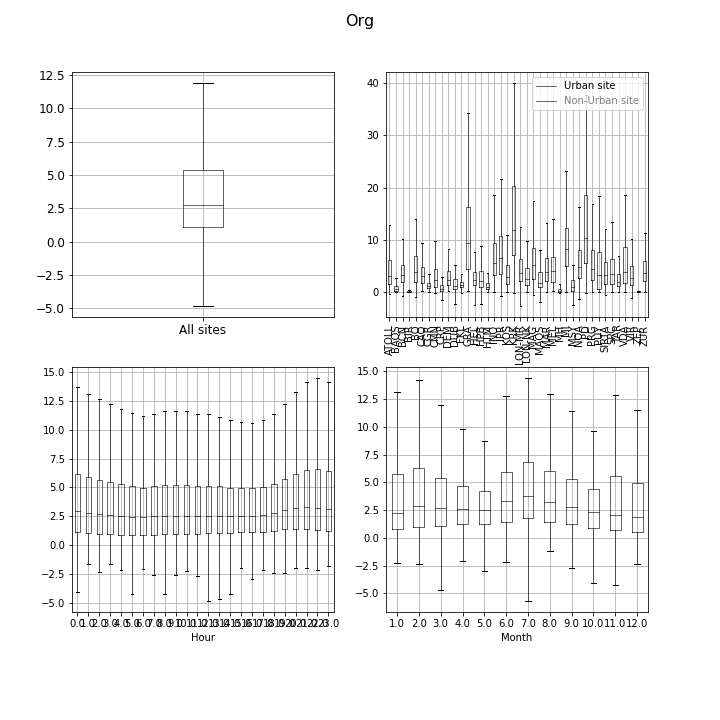
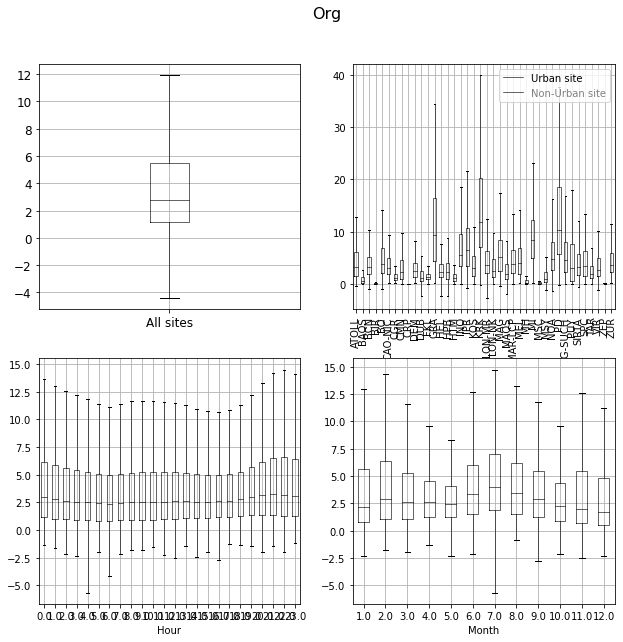
Progress 10/01/2024

diff --git a/Data_compilation.py b/Data_compilation.py
@@ -51,7 +51,7 @@ all_files=glob.glob(path_data+'*Composition.txt')
 li_site_names = [j[-29:-25] for j in all_files]
 chem_comp=pd.DataFrame()
 chem_comp['Chemical_composition']=[pd.read_csv(i, sep='\t', na_values='null', keep_default_na=True) for i in all_files]
-li_sites_names = ['ATOLL', 'BAQS', 'BCN', 'BIR', 'BO', 'CAO-NIC', 'CGR', 'CMN', 'CRP', 'DEM', 'DUB', 'FKL','GRA', 'HEL','HPB', 'HTM', 'INO', 'IPR',  'KOS', 'KRK', 'LON-MR', 'LON-NK', 'MAG','MAQS', 'MAR-LCP', 'MEL', 'MH', 'MI', 'MSY', 'NOA', 'PD', 'PRG-SUCH','PUY', 'SIRTA',  'SPC', 'TAR','VIR', 'ZEP', 'ZUR'] 
+li_sites_names = ['ATOLL', 'BAQS', 'BCN', 'BIR', 'BO', 'CAO-NIC', 'CGR', 'CMN', 'CRP', 'DEM', 'DUB', 'FKL','GRA', 'HEL','HPB', 'HTM', 'INO', 'IPR',  'KOS', 'KRK', 'LON-MR', 'LON-NK', 'MAG','MAQS', 'MAR-LCP', 'MEL', 'MH', 'MI', 'MSC', 'MSY', 'NOA', 'PD', 'PRG-SUCH','PUY', 'SIRTA',  'SPC', 'TAR','VIR', 'ZEP', 'ZUR'] 
 chem_comp.index = li_sites_names
 #%% We import metadatafiles
 os.chdir(path_folder)
@@ -106,7 +106,7 @@ comp='Org'
 li_dfs=[]
 chem_compound,chem_compound_t, chem_dt=pd.DataFrame(), pd.DataFrame(), pd.DataFrame()
 for i in range(0,len(chem_comp)):
-    print(i, li_site_names[i])
+    print(i, li_sites_names[i])
     df1 = pd.DataFrame(chem_comp.iloc[i][0])
     df1.reset_index(inplace=True, drop=True)
     df1['datetime']=pd.to_datetime(df1['Time (UTC)'], dayfirst=True)
@@ -142,8 +142,8 @@ plt.savefig('Boxplots_'+comp+'.png')
 # li_dfs=[j.drop('datetime', inplace=True, axis=1) for j in li_dfs]
 
 
-#%% Maybe now I should put them in teh daily pattern
-min_date = pd.date_range(start='01/01/2010', end = '31/12/2023', freq='D').strftime('%d/%m/%Y') #The complete time series
+#%% Maybe now I should put them in the daily pattern
+min_date = pd.date_range(start='01/01/2009', end = '31/12/2023', freq='D').strftime('%d/%m/%Y') #The complete time series
 li_days, li_nr=[], []
 for i in range(0,len(chem_comp)):
     print(i, li_sites_names[i], li_site_names[i])
@@ -151,9 +151,10 @@ for i in range(0,len(chem_comp)):
     df1.reset_index(inplace=True, drop=True)
     df1['datetime']=pd.to_datetime(df1['Time (UTC)'], dayfirst=True) 
     df1['date']=df1['datetime'].dt.date
+    df1['Org'].astype(float)
     df1=df1.drop(columns=['Time (Local)', 'Time (UTC)', 'MSA', 'Seasalt', 'datetime'], axis=1, errors='ignore')
-    df1d=df1#.groupby(by=df1['date']).mean(numeric_only=True)
-    # df1d['datetime']=pd.to_datetime(df1d.index, dayfirst=True)
+    df1d=df1.groupby(by=df1['date']).mean(numeric_only=True)
+    df1d['datetime']=pd.to_datetime(df1d.index, dayfirst=True)
     df1d.columns=['Chl_'+li_sites_names[i],'NH4_'+li_sites_names[i], 'NO3_'+li_sites_names[i],'Org_'+li_sites_names[i], 'SO4_'+li_sites_names[i], 'datetime_'+li_sites_names[i] ]
     nr=pd.DataFrame({li_sites_names[i]: df1d.drop('datetime', errors='ignore').sum(axis=1)})
     li_days.append(df1d) #List of the datetimes
@@ -167,19 +168,23 @@ for i in range (1,len(li_days)):
     dates = pd.merge(dates,li_days[i], how='outer',left_on='date', right_on='datet', sort=True)
 dates=dates.drop(dates.index[-1])
 dates.index=dates['date']
-dates.plot(legend=False)
+# dates.plot(legend=False)
 
 #%% PLot availability
 dates_plot=dates.loc[:, dates.columns.str.startswith('datetime')]
 colors=['grey', ]
-for m, col in zip('xosd', df):
-    df[col].plot(marker=m)
-plt.legend()
+li_sites_names = ['ATOLL', 'BAQS', 'BCN', 'BIR', 'BO', 'CAO-NIC', 'CGR', 'CMN', 'CRP', 'DEM', 'DUB', 'FKL','GRA', 'HEL','HPB', 'HTM', 'INO', 'IPR',  'KOS', 'KRK', 'LON-MR', 'LON-NK', 'MAG','MAQS', 'MAR-LCP', 'MEL', 'MH', 'MI', 'MSC', 'MSY', 'NOA', 'PD', 'PRG-SUCH','PUY', 'SIRTA',  'SPC', 'TAR','VIR', 'ZEP', 'ZUR'] 
 
+# for m, col in zip('xosd', df):
+#     df[col].plot(marker=m)
+# plt.legend()
 li_marker=[]
 li_color=[]
+metadata = metadata.sort_values('Acronym')
+metadata.index =range(0,len(metadata))
 for i in range(0,len(metadata[:-1])):
-    if metadata['Type.1'].iloc[i]=='AMS':
+    # print(i, metadata['Acronym'][i], dates_plot.columns[i], metadata['Type.1'][i])
+    if metadata['Type.1'].iloc[i]=='AMS' or metadata['Type.1'].iloc[i]=='Q-AMS' or  metadata['Type.1'].iloc[i]=='c-ToF-AMS' :
         li_marker.append('D')
     if metadata['Type.1'].iloc[i]=='Q':
         li_marker.append('s')
@@ -200,15 +205,24 @@ for i in range(0,len(metadata[:-1])):
         li_color.append('hotpink')
     if metadata['Type'].iloc[i]=='TR':
         li_color.append('darkcyan')
+        
 dates_plot=dates_plot.notnull().astype('int')
 dates_plot=dates_plot.replace(0, np.nan)
+
+li_color.append('royalblue')
+li_marker.append('s')
+
+li_sites_names.reverse()
+
 for i in range(0,len(dates_plot.columns)):
-    dates_plot[dates_plot.columns[i]]=dates_plot[dates_plot.columns[i]]*(i+1)
-fig, axs = plt.subplots(figsize=(9,8))
+    dates_plot[dates_plot.columns[i]]=dates_plot[dates_plot.columns[i]]*40-(i)
+fig, axs = plt.subplots(figsize=(10, 11))
 for m, col, c in zip(li_marker, dates_plot.columns, li_color):
-    dates_plot[col].plot(marker=m, lw=0,legend=False, ax=axs, color=c, grid=True)
+    dates_plot[col].plot(marker=m, lw=0, legend=False, ax=axs, color=c, grid=True)
 axs.set_yticks(range(0,len(dates_plot.columns)+1))
-axs.set_yticklabels(['']+li_sites_names)
+axs.set_yticklabels(['']+li_sites_names, fontsize=12)
+axs.set_xticklabels(range(2008,2025,2), fontsize=14, rotation=0)
+
 axs.set_xlabel('Time (years)', fontsize=14)
 axs.set_ylabel('Sites', fontsize=14)
 from matplotlib.lines import Line2D
@@ -224,21 +238,24 @@ legend_elements = [Line2D([0], [0], color='royalblue', label='Urban background',
                    Line2D([0], [0], marker='D', color='grey', label='AMS'),
                    Line2D([0], [0], marker='s', color='grey', label='Q-ACSM'),
                    Line2D([0], [0], marker='o', color='grey', label='ToF-ACSM')]
-axs.legend(handles=legend_elements, loc = (1.02,0.5))#'upper right')
-#Still to do: plot by type of instrument  or type of site. 
+axs.legend(handles=legend_elements, loc = (1.03,0.65))#'upper right')
+plt.title('Data availability')
 fig.savefig('Site_availability.png')
 
 
 #%%
-li_sites_types = []
-for i in range(0,len(li_sites_names)):
-    a=metadata.loc[metadata['Acronym']==li_sites_names[i]]['Type'].to_list()
-    li_sites_types.append(a[0])
+li_sites_names.reverse()
+# metadata=metadata.drop(35)
+metadata=metadata.reset_index()
+metadata['index']=metadata.index
+li_sites_types=metadata['Type'].to_list()
+
 sites=pd.DataFrame({'Name': li_sites_names, 'Type': li_sites_types})
-#%%
-comp = 'Org'
+#%%Plots all data for eaqch typeand in black the mean of them
+comp = 'SO4'
 col_list=[]
 types =['UB', 'RB', 'SU', 'C', 'M', 'A', 'TR']
+
 ub, rb, su, c, m, a, tr= pd.DataFrame(), pd.DataFrame(),pd.DataFrame(),pd.DataFrame(),pd.DataFrame(),pd.DataFrame(), pd.DataFrame()
 compound_dates=dates.loc[:, dates.columns.str.startswith(comp)]
 for i in range(0,len(compound_dates.columns)):
@@ -287,7 +304,7 @@ for i in range(0,len(li_df_types)):
 axs[0].set_ylim(0,15)
 fig.suptitle(comp, fontsize=14)
 
-#%%
+#%% ??
 fig, axs=plt.subplots(nrows=len(ub.columns), figsize=(2,20))
 for j in range():
     df=types[j]
@@ -296,17 +313,18 @@ for i in range(0,len(ub.columns)):
     axs[i].set_ylabel(li_sites_names[i])
 #%%
 fig, axs=plt.subplots( figsize=(5,5))
-ub.median().plot(kind='kde', ax=axs, lw=3)
-rb.median().plot(kind='kde', ax=axs, lw=3)
-su.median().plot(kind='kde', ax=axs, lw=3)
+ub.median().plot(kind='kde', ax=axs, lw=3, color='royalblue')
+rb.median().plot(kind='kde', ax=axs, lw=3, c ='green')
+su.median().plot(kind='kde', ax=axs, lw=3, c='darkorange')
 # c.mean().plot(kind='kde', ax=axs)
-# m.median().plot(kind='kde', ax=axs)
+m.median().plot(kind='kde', ax=axs, lw=3, color = 'sienna' )
 # a.median().plot(kind='kde', ax=axs)
-tr.mean().plot(kind='kde', ax=axs, lw=3)
-axs.legend(['UB', 'RB', 'SU', 'TR']) 
-plt.title('OA', fontsize=15)
+tr.mean().plot(kind='kde', ax=axs, lw=3, color ='darkcyan' )
+axs.legend(['UB', 'RB', 'SU', 'M', 'TR']) 
+plt.title(comp, fontsize=15)
 axs.set_xlabel('Concentration ($μg·m^{-3}$)', fontsize=14)
 axs.set_ylabel('Frequency', fontsize=14)
+# colors=['darkorange', 'royalblue', 'green', 'sienna', 'darkcyan', 'hotpink', 'mediumpurple'])
 #%%
 fig, axs=plt.subplots(nrows=len(types), figsize=(7,9), sharex=True)
 for j in range(0,len(li_df_types)):
@@ -323,7 +341,7 @@ for j in range(0,len(li_df_types)):
     df.boxplot(showfliers=False, showmeans=True, boxprops=bp, fontsize=10, medianprops=mdp,meanprops=mp, whiskerprops=wp, rot=90, ax=axs[j])
     axs[j].set_ylabel(types[j])
 axs[len(dft.columns)].set_xlabel('Years', fontsize=13)
-fig.suptitle('Org', fontsize=13)
+fig.suptitle(comp, fontsize=13)
 #%%
 '''     SUPERATIONS!!    '''
 
@@ -350,10 +368,10 @@ colors=['royalblue','green', 'darkorange', 'mediumpurple', 'sienna', 'hotpink', 
 # a=[colors[i] for i in sup_daily['Type_int']]
 fig, axs = plt.subplots(figsize=(8,8), ncols=2)
 sup_daily=sup_daily.sort_values(by='Percentage superations')
-sup_daily['Percentage superations'].plot(kind='barh', ax=axs[0], color=[colors[i] for i in sup_daily['Type_int']])
+sup_daily['Percentage superations'].plot(kind='barh', ax=axs[0], color=[colors[i] for i in sup_daily['Type_int']], zorder=3)
 axs[0].set_ylabel('Percentage of WHO PM$_{2.5}$ daily thresholds superation', fontsize=13)
 axs[0].set_xlim(0,100)
-axs[0].grid('x')
+axs[0].grid(axis='x', zorder=0)
 axs[0].set_title('NR-PM$_1$ concentration')
 
 from matplotlib.lines import Line2D
@@ -374,6 +392,16 @@ sup_pie=sup_pie.sort_values('Percentage superations', ascending=False)
 sup_pie.plot.pie(y='Percentage superations', ax=axs[1], legend=False,autopct='%2.0f%%', labels=None,pctdistance=0.7,fontsize=12, 
                  startangle=90, counterclock=False, ylabel='', colors=['darkorange', 'royalblue', 'green', 'sienna', 'darkcyan', 'hotpink', 'mediumpurple'])
 #%% By months and by years
+li_year=[]
+df_year=pd.DataFrame()
+df_year.index=range(2010, 2024)
 for i in range(0, len(li_nr)):
-    a=li_nr[i]
-    a.index=li_days[i].loc[li_days[0].columns.str.startswith('datetime')]
+    a=li_nr[i].copy(deep=True)
+    a['dt']=li_days[i].loc[:,li_days[i].columns.str.startswith('datetime')]
+    a['date']=pd.to_datetime(a['dt'], dayfirst=True)
+    a['Year']=a['date'].dt.year    
+    mask=a.iloc[:,0]>=limit_who_25_daily
+    b = a.loc[mask]
+    df_year[li_sites_names[i]]=b.groupby('Year').count()['dt']
+ 
+df_year.plot(kind='bar', legend=False)
